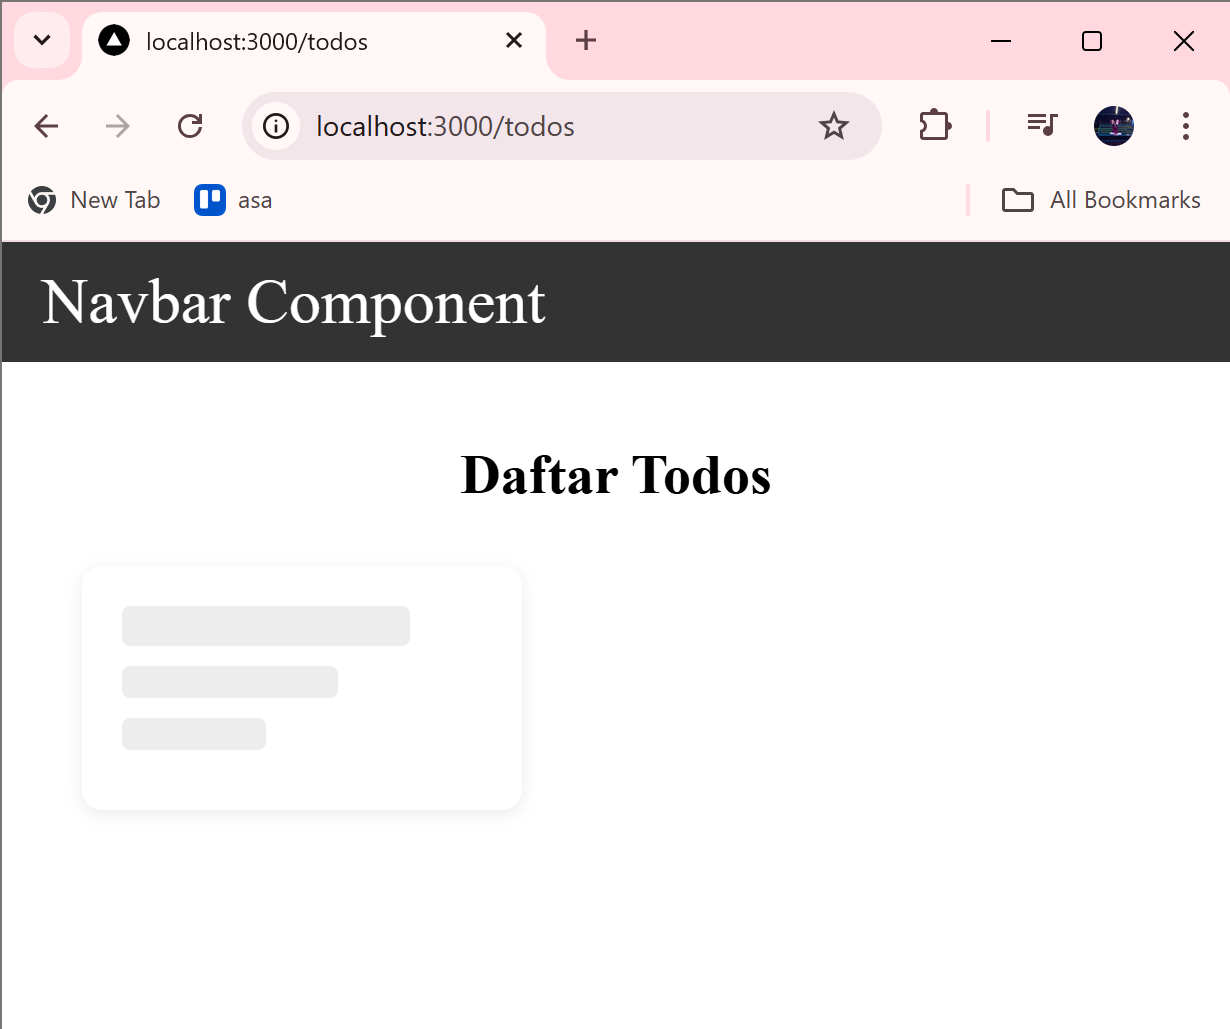
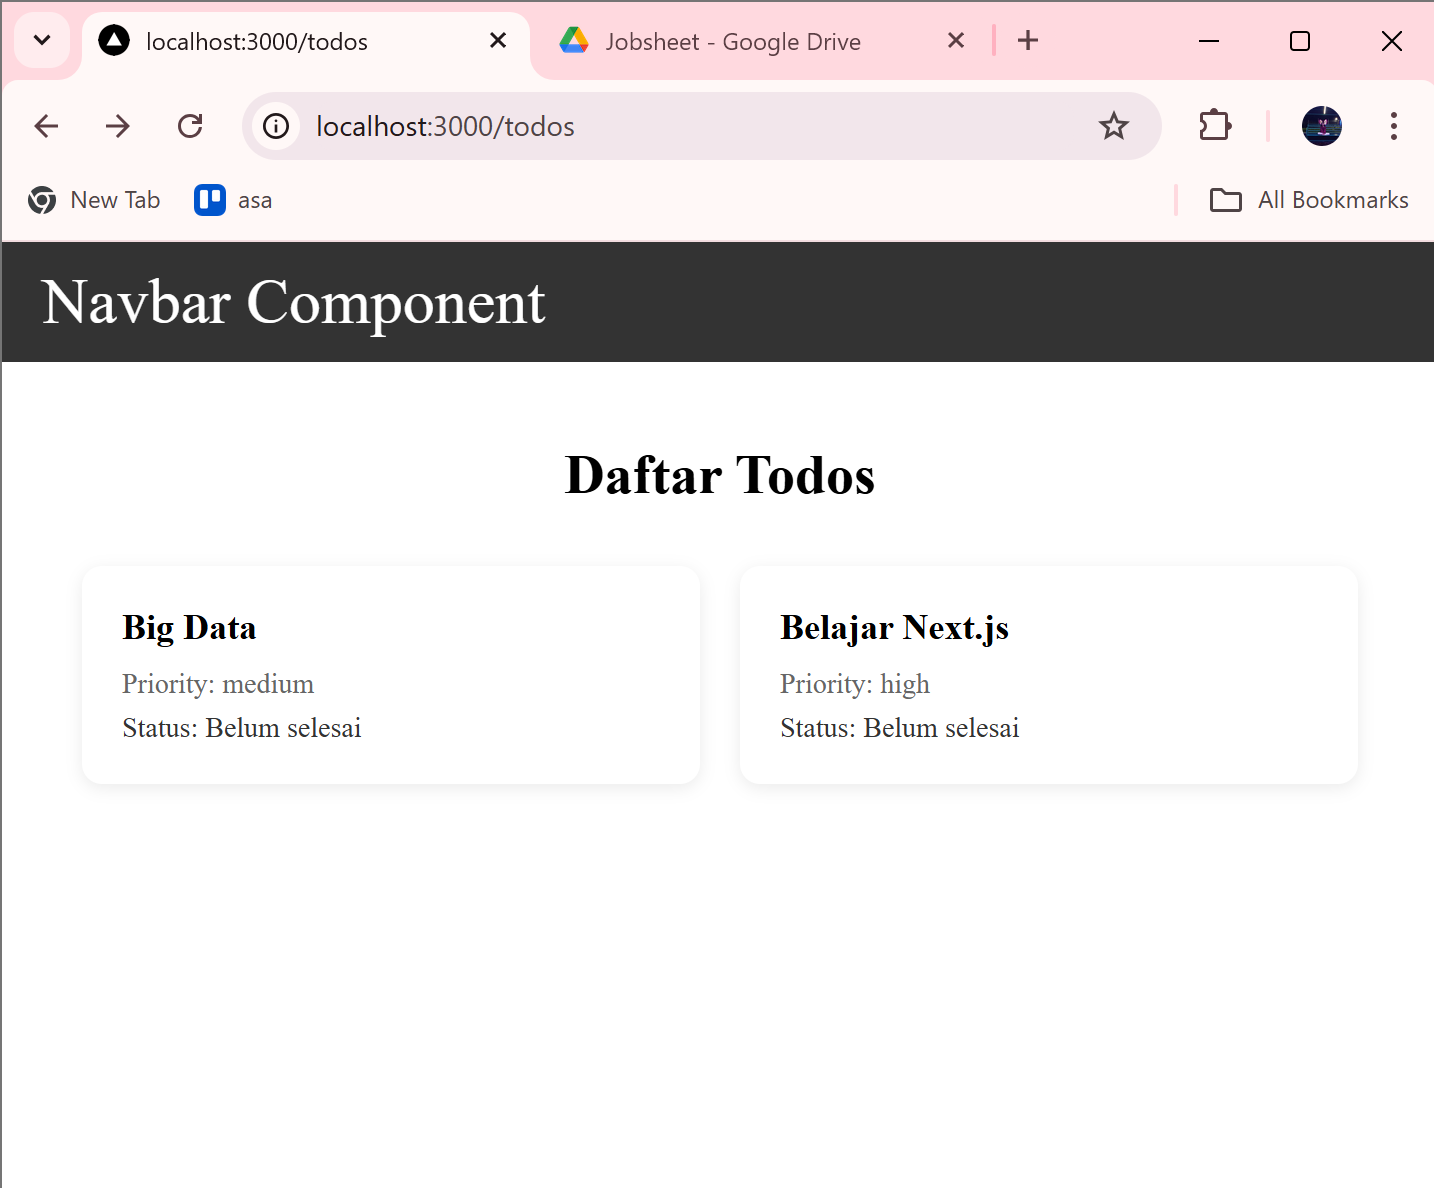
jobhseet 10_tugas 1

Changed region(s): [[0.0, 0.0, 1.0, 0.622], [0.0, 0.0, 0.3089, 0.1244], [0.0927, 0.4976, 0.2472, 0.622]]

diff --git a/Praktikum_10/my-app/src/pages/todos/index.tsx b/Praktikum_10/my-app/src/pages/todos/index.tsx
@@ -16,7 +16,7 @@ const list = () => {
   
   return (
     <div>
-      <TampilanList todos={isLoading ? [] : data} />
+      <TampilanList todos={isLoading ? [] : data?.data || []} />
     </div>
   );
   
